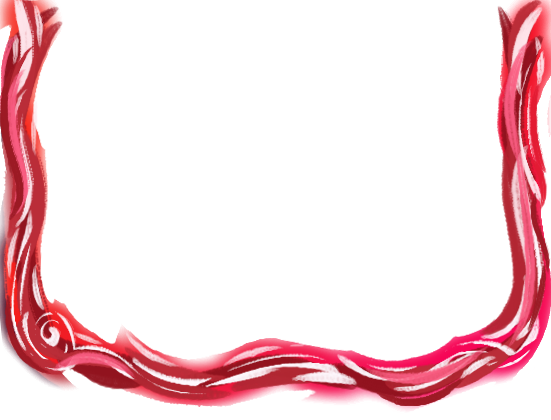
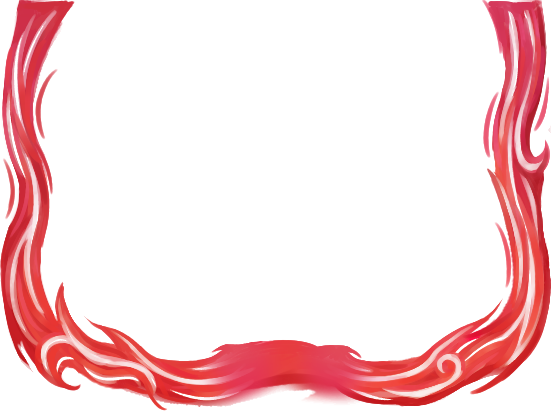
add new ego card assets

Changed region(s): [[0.0, 0.0, 1.0, 0.9905]]

diff --git a/Ruina2Code/Cards/EGO/EGOCard.cs b/Ruina2Code/Cards/EGO/EGOCard.cs
@@ -8,7 +8,7 @@ namespace Ruina2.Ruina2Code.Cards.EGO;
 public abstract class EGOCard(int cost, CardType type, CardRarity rarity, TargetType target) :
     Ruina2Card(cost, type, rarity, target)
 {
-    public string? CustomPortraitBorderPath =>  "cards/border_power_ego.png".ImagePath();
+    public string? CustomPortraitBorderPath => $"cards/border_{Type.ToString().ToLowerInvariant()}_ego.png".ImagePath();
     
     public string? CustomBannerTexturePath =>  "cards/banner_ego.png".ImagePath();
     

diff --git a/Ruina2Code/Cards/EGO/EGOCardPool.cs b/Ruina2Code/Cards/EGO/EGOCardPool.cs
@@ -26,7 +26,7 @@ public class EGOCardPool : CustomCardPoolModel
     //Alternatively, leave these values at 1 and provide a custom frame image.
     public override Texture2D CustomFrame(CustomCardModel card)
     {
-        return PreloadManager.Cache.GetTexture2D("cards/frame_power_ego.png".ImagePath());
+        return PreloadManager.Cache.GetTexture2D($"cards/frame_{card.Type.ToString().ToLowerInvariant()}_ego.png".ImagePath());
     }
 
     //Color of small card icons
